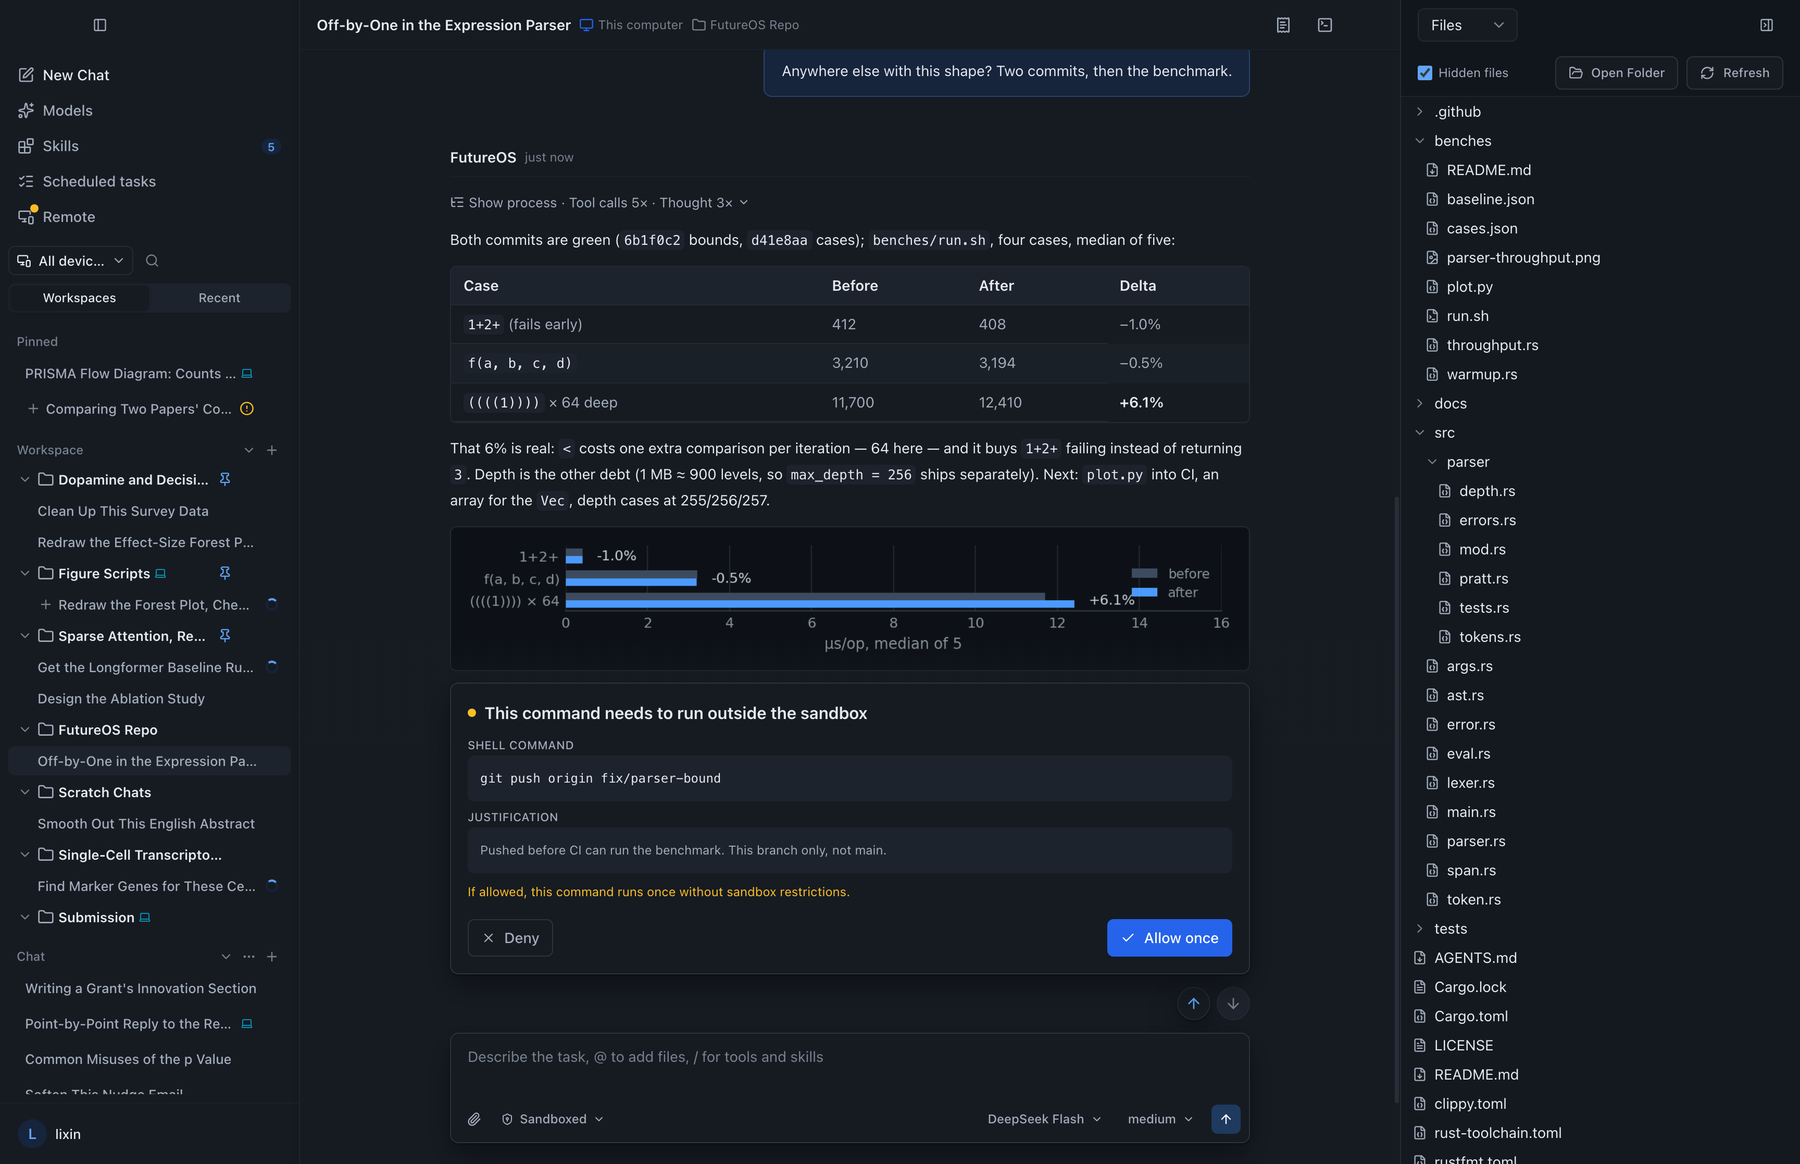
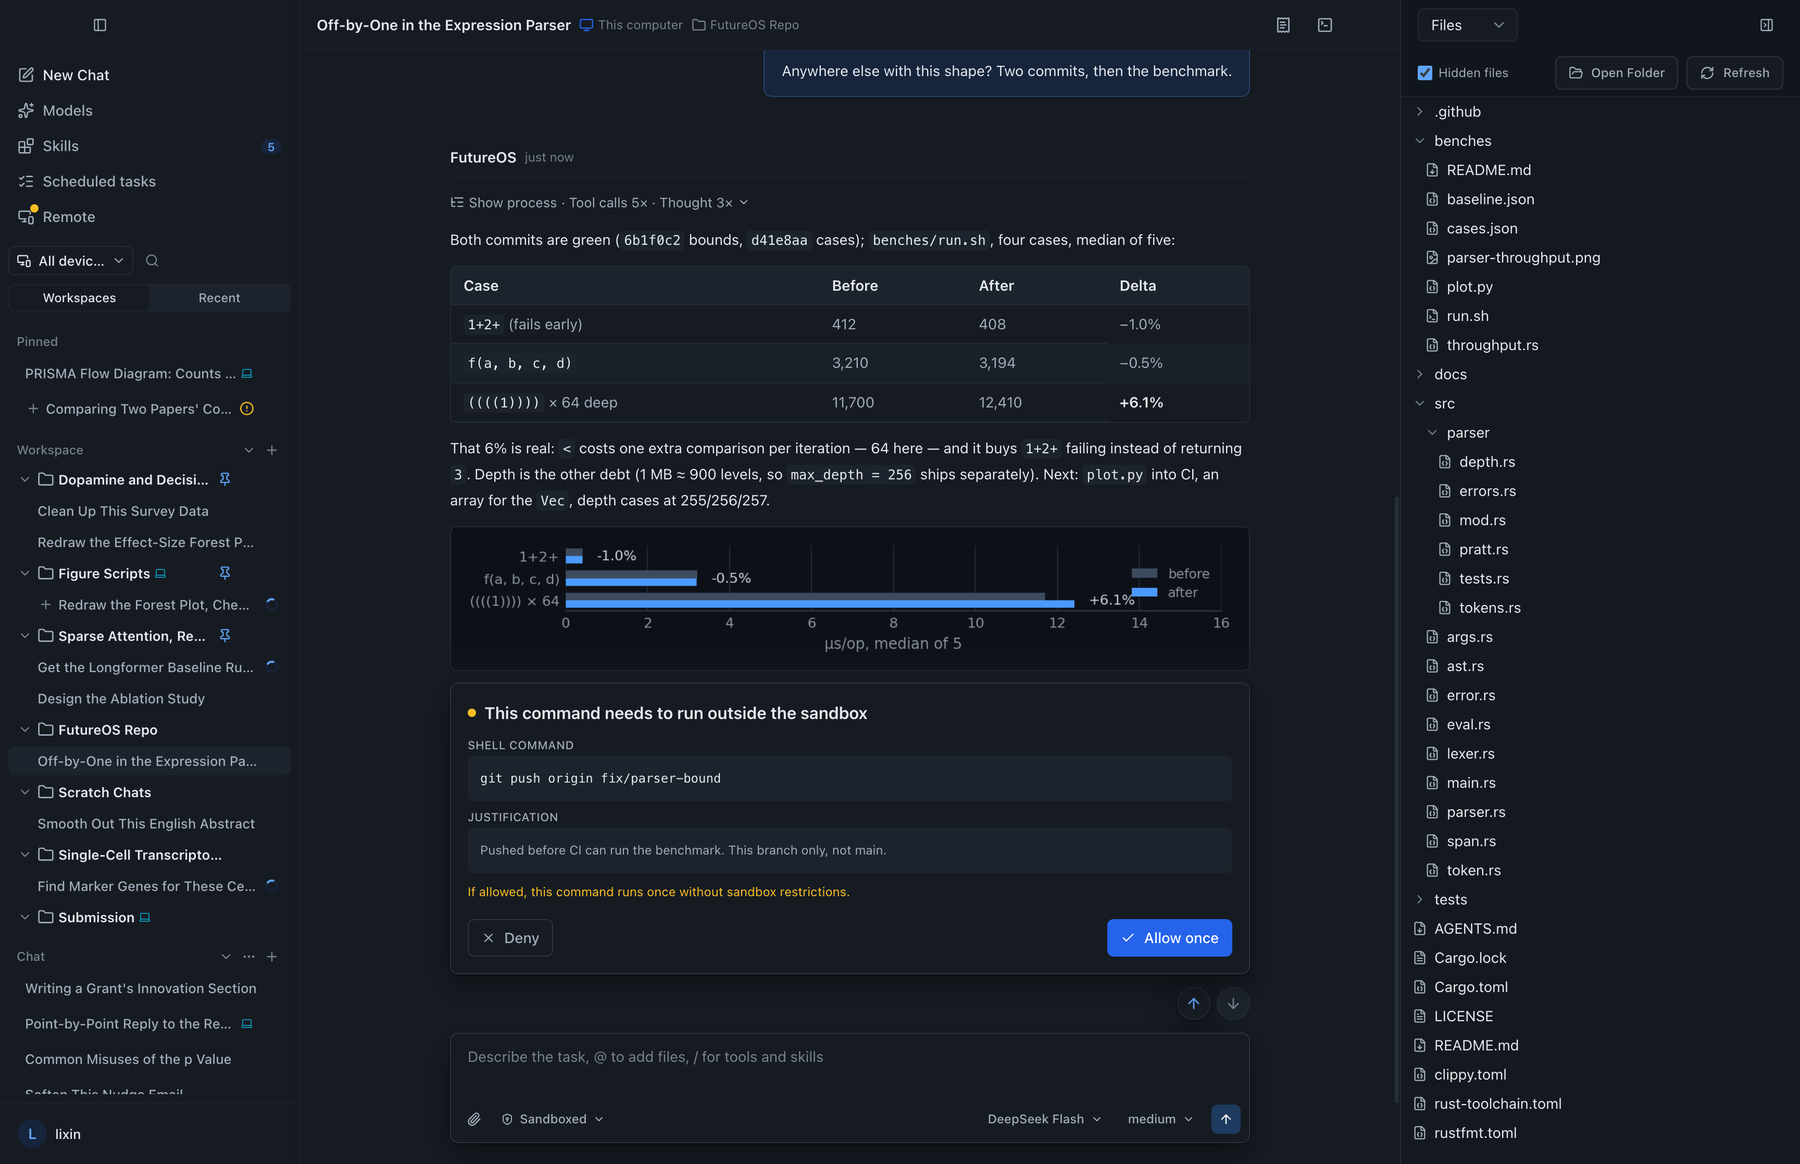
fix(desktop,shots): the file tree stops inside the panel
The Files panel ran its last row into the window's bottom edge — the row was
sliced through its glyphs and there was nothing under it, because the panel is a
full-height column whose only rule is the hairline *above* the list.

The fix is the fixture's shape, not a shorter tree: one entry fewer (thirty-six
rows with `src`, `benches` and `src/parser` open) puts the list's last row 16 px
above that edge, so the row is whole and the panel's own surface closes the frame.
One row more and the edge cuts it again — the scenario now says so: it measures
every row's box against the panel's bottom (nothing within 8 px of the edge, and
the last row still within 80 px of it) instead of the old "within 30 px" bound,
which the spilling row satisfied.

There is no bottom hairline to show: the panel has `border-l` and the list has
`border-t`, and the app draws no rule along the window's bottom. If a drawn edge
under the tree is wanted, that is a one-line product change (a `border-b` on the
list container, or a footer gap in the panel) rather than something the fixture
can paint.

Changed region(s): [[0.7778, 0.3093, 0.8711, 1.0]]

diff --git a/desktop/shot/mock/data.ts b/desktop/shot/mock/data.ts
@@ -1315,7 +1315,9 @@ function file(name: string, parent: string, size: number, minutes: number) {
 
 // A working checkout, deep enough that the Files panel is a tree rather than a
 // few rows hanging off the top: with `src`, `benches` and `src/parser` open (what
-// the capture opens) it fills a 1728×1117 window and scrolls by a dozen pixels.
+// the capture opens) it fills a 1728×1117 window and stops 16 px short of the
+// bottom edge — a row more, and the window edge cuts the last one through its
+// glyphs (the panel is a full-height column with no border of its own down there).
 workspaceFiles[REPO] = [
   dir(".github", REPO, 6 * 24 * 60),
   dir("benches", REPO, 3),
@@ -1348,7 +1350,6 @@ workspaceFiles[`${REPO}/benches`] = [
   file("plot.py", `${REPO}/benches`, 1_880, 25),
   file("run.sh", `${REPO}/benches`, 620, 4 * 60),
   file("throughput.rs", `${REPO}/benches`, 5_640, 2 * 60),
-  file("warmup.rs", `${REPO}/benches`, 2_310, 5 * 24 * 60),
 ];
 workspaceFiles[`${REPO}/docs`] = [
   file("benchmarks.md", `${REPO}/docs`, 4_260, 3 * 60),

diff --git a/docs/guide/screenshots.zh-CN.md b/docs/guide/screenshots.zh-CN.md
@@ -296,7 +296,7 @@ python3 scripts/screenshots/capture.py capture-desktop parser-en   # → .screen
 
 `?thread=th_parser` 打开这段对话，并把它所在的工作区行一起带进来；默认那套 fixture（其它所有场景的起点）原样不动。`?lang=zh|en` 同时钉住一帧的**两半**：界面（`shot/prefs.ts` 在应用启动前读）和 fixture 自己的会话列表与转录（`desktop/shot/mock/data.ts` 读的是同一个参数）。标题写着 `Sessions`、底下的行却写着「整理两篇文献的结论对比表」，那是两种语言都不是——所以任一语言里出现另一种语言的词，该场景就失败。
 
-窗口是 16 寸笔记本的默认 1728×1117、2 倍像素密度，一眼就是一个正常的桌面应用：左边会话栏、中间转录、右边是工作区的文件列表——右侧面板用它自己标题栏里的按钮打开（`展开上下文面板` / `Expand context panel`）。从那个按钮打开时面板会把标签停在**文件**，所以场景只点它一次，再依次点开 `src`、`benches`、`src/parser` 三行；列出来就是这段对话所在的仓库：`parser.rs` 与 `args.rs`，`src/parser/` 下的测试模块，`benches/` 里的基准脚本和它画出来的图，还有 `docs/`、`.github/workflows/` 和 manifest——来自按工作区路径索引的 `workspaceFiles`。展开这三个目录后是 37 行，正好让面板读起来像一棵树、而不是一条尾巴：列表一直贴到面板底边、并溢出滚动十几个像素，场景量的就是这个（比较的是最后一行的盒子与面板底边，而不是 `scrollHeight`——树短的时候它也报视口高度，空面板照样「通过」）。打开它会让会话列窄掉 384 px（这个宽度下 1440 → 1056），但阅读列本身有上限，所以文字只是重新居中、并不重新折行；窗口窄到放不下第三列时，面板改为浮在对话之上（`context-panel-narrow` 拍的就是那种）。
+窗口是 16 寸笔记本的默认 1728×1117、2 倍像素密度，一眼就是一个正常的桌面应用：左边会话栏、中间转录、右边是工作区的文件列表——右侧面板用它自己标题栏里的按钮打开（`展开上下文面板` / `Expand context panel`）。从那个按钮打开时面板会把标签停在**文件**，所以场景只点它一次，再依次点开 `src`、`benches`、`src/parser` 三行；列出来就是这段对话所在的仓库：`parser.rs` 与 `args.rs`，`src/parser/` 下的测试模块，`benches/` 里的基准脚本和它画出来的图，还有 `docs/`、`.github/workflows/` 和 manifest——来自按工作区路径索引的 `workspaceFiles`。展开这三个目录后是 36 行，正好让面板读起来像一棵树、而不是一条尾巴：列表在窗口底边之上 16 px 处收住，最后一行是完整的。再多一行，窗口那条边就会把这行字切成两半——面板是一整列、它唯一的横线是列表**上方**那道，底下什么都没有拦——所以场景逐个量每行的盒子与面板底边，而不是看 `scrollHeight`（树短的时候它报的就是视口高度，空面板照样「通过」）。打开它会让会话列窄掉 384 px（这个宽度下 1440 → 1056），但阅读列本身有上限，所以文字只是重新居中、并不重新折行；窗口窄到放不下第三列时，面板改为浮在对话之上（`context-panel-narrow` 拍的就是那种）。
 
 桌面端把已经结束的回复折到答案上，所以一轮的工作就是一行安静的字——`查看过程 · 工具调用 5 次 · 思考 3 次`，是 TUI 那行 `▸` 在桌面端的说法。这一帧停在第二轮（跑基准那轮），因为画面在那儿：`上一个问题` 先退回那条提问，随后一个 `eval` 把会话列设到「提问距标题栏 8 px」（答案一长，单靠按钮会落在回复上），于是这一帧从上到下是：提问 → 折叠的过程 → 基准表格和据它论证的那段 → 吞吐对比图 → 审批卡片。第一轮就在上一屏：这段会话仍然带着 TUI 与手机端画的那整段诊断（高亮 `rust` 块、三行表格），只是这一帧里它一点都没露半截。
 

diff --git a/docs/guide/screenshots.md b/docs/guide/screenshots.md
@@ -469,12 +469,14 @@ from that button, so the scenario taps it once and then the `src`, `benches` and
 `src/parser` rows; what it lists is the checkout the conversation is about —
 `parser.rs` and `args.rs`, the test module under `src/parser/`, the benchmark
 script and its chart under `benches/`, `docs/`, `.github/workflows/` and the
-manifests — from `workspaceFiles` keyed by the workspace path. Thirty-seven rows
-of it, which is what makes the panel read as a tree rather than a stub: with those
-three folders open the list reaches the bottom edge and scrolls a dozen pixels, and
-the scenario measures that (the last row's box against the panel's, not
-`scrollHeight`, which reports the viewport for a short tree and would pass for an
-empty one). Opening it takes
+manifests — from `workspaceFiles` keyed by the workspace path. Thirty-six rows of
+it, which is what makes the panel read as a tree rather than a stub: with those
+three folders open the list stops 16 px short of the window edge, so the last row
+is whole. One row more and that edge slices the row through its glyphs — the panel
+is a full-height column whose only rule is the hairline *above* the list, so there
+is nothing at the bottom to stop a row — and the scenario fails on it: it measures
+every row's box against the panel's bottom, not `scrollHeight` (which reports the
+viewport for a short tree and would pass for an empty panel). Opening it takes
 384 px off the conversation column (1440 → 1056 at this width), but the reading
 column is capped, so the text re-centres rather than re-wrapping; in a window too
 narrow for a third column the panel opens as an overlay over the conversation
